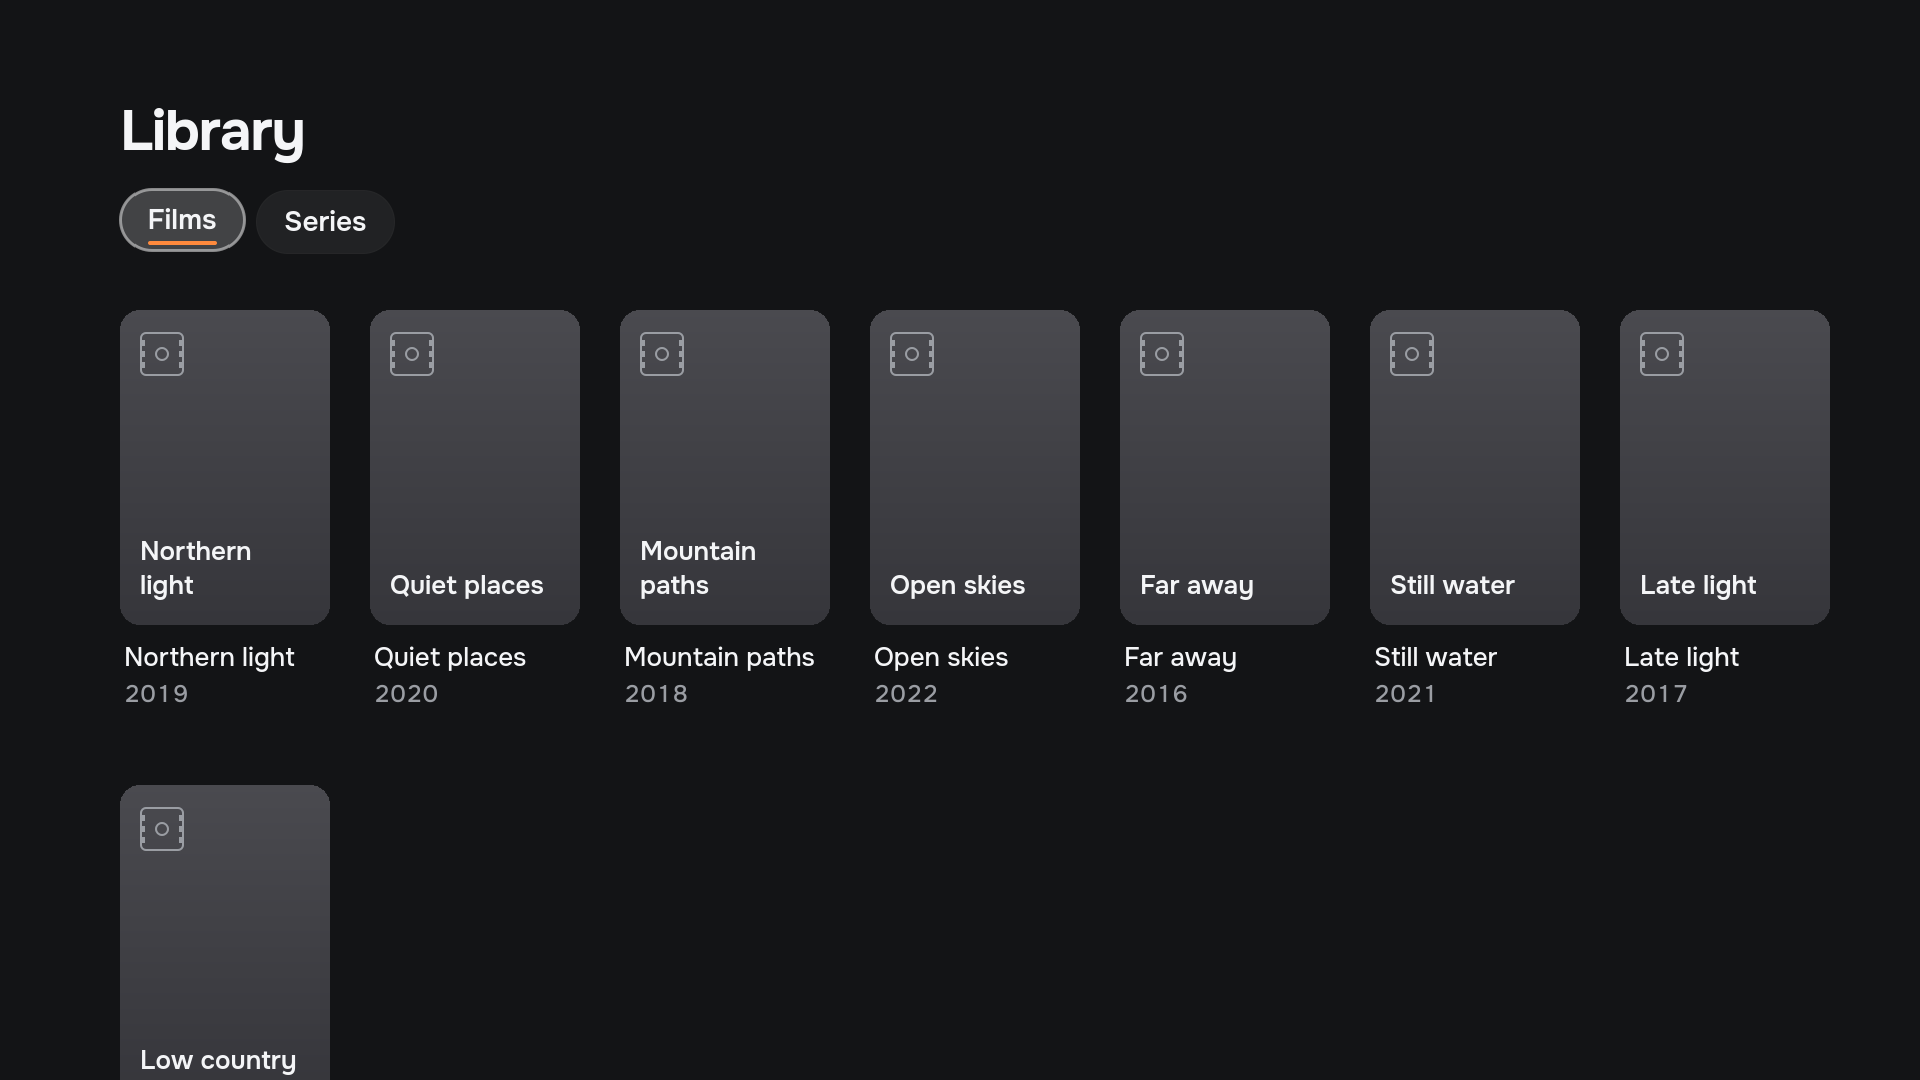
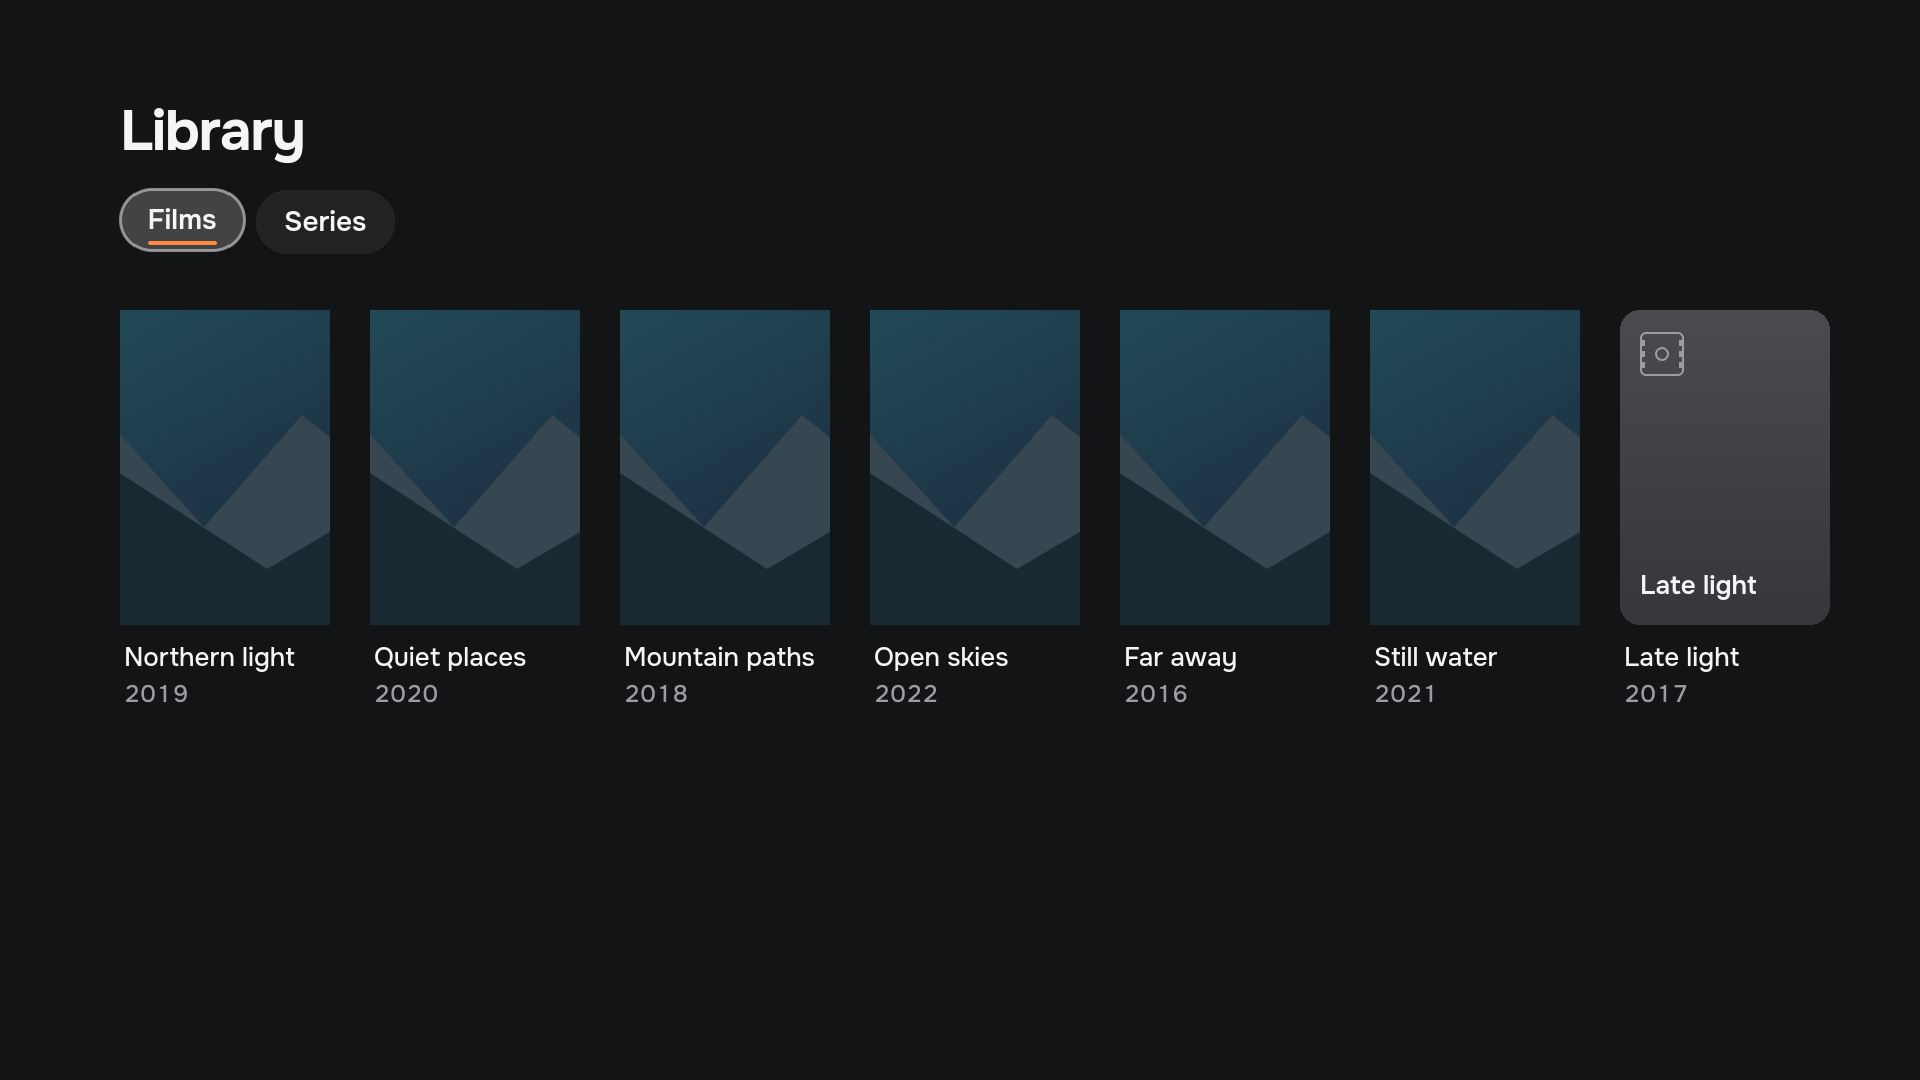
Match the READMEs to the shell on master
Document Library1, Media1, Settings1 and Assets1, and the screens the
shell does not mount. Refresh the 1920x1080 gallery captures, including
Settings, and keep the English and Russian captions to what is in frame.

Changed region(s): [[0.0625, 0.275, 0.8438, 0.5806], [0.0625, 0.7028, 0.1875, 1.0]]

diff --git a/README.md b/README.md
@@ -21,37 +21,39 @@
 ---
 
 > [!WARNING]
-> **Arinn is pre-alpha.** Phase 1 implements the production core and plugin SDK; the minimal UI remains a technical prototype. It is not yet usable as an everyday HTPC shell. See the [roadmap](ROADMAP.md).
+> **Arinn is pre-alpha.** Phase 1 implements the production core and plugin SDK. The shell binds several screens to the daemon and is still a technical prototype. It is not yet usable as an everyday HTPC shell. See the [roadmap](ROADMAP.md).
 
 ## What is Arinn?
 
 Arinn (Old Norse for *hearth*) turns a Linux computer behind the TV into something that feels like a TV: you pick up the remote and ask *"what do we want to do now?"* instead of *"which app do I start?"*.
 
-Arinn does **not** replace your browser, player or game launcher. It orchestrates the applications you already have and stays on top of them:
+Arinn does **not** replace your browser, player or game launcher. It orchestrates the applications you already have and stays on top of them. What follows is what the shell on `master` mounts:
 
-- **Home over everything.** Press Home in Chrome, Steam or a game and Arinn appears over it; press Back and you are exactly where you were.
-- **One Continue row** for the film you did not finish, the browser tab you were watching and the running game.
-- **Streaming services as tiles** — Kinopoisk, IVI or YouTube open directly, not through bookmarks.
-- **Steam and EmulationStation** as first-class entry points.
-- **Local library** of films and series from local or mounted network folders, played in mpv with Arinn's on-screen controls, audio and subtitle selection and resume.
-- **Downloads** from Transmission, with finished films appearing in the library.
+- **Home over everything.** Press Home in another application and Arinn appears over it; press Back and you are where you were.
+- **Continue and Now playing** read media sessions from `Media1`, with progress and transport controls. The mpv plugin is the playback provider. The local library plugin is the catalogue.
+- **Library** reads `Library1`. Posters and fanart load through `Assets1`. A missing image stays a plate.
+- **Open services** lists managed browser windows. The packaged web shortcuts include YouTube, Kinopoisk and IVI.
+- **Applications** come from the desktop provider, grouped into Online, Games, Media and Other.
+- **Settings** reads `Settings1`. Controls are grouped and typed: a toggle, a stepper, text, an option list or a path. A path is plain text. There is no folder browser.
 - **Made for a remote:** everything works with arrows, OK and Back from three metres away; an air mouse works too.
 - **Shared household:** no accounts, no profiles, no login.
+
+Downloads, the player on-screen display and the power menu are specified and are not mounted. Choosing Downloads shows that the section is not available. Choosing Power reports that power controls are not available. The daemon serves `Browse1`. The shell has no address or search screen. Timeline thumbnails stay with the player binding and are not part of the artwork above.
 
 Every integration is a separate plugin process talking to a small core over D-Bus, so new services can be added without touching Arinn itself.
 
 ## Interface preview
 
-These are screenshots of the **current Qt/QML interface**, rendered by the development gallery with fictional fixture data, placeholder artwork and neutral application icons. Home, navigation, Library, Applications, Open services and Now playing use the same components as the production shell. Media, favorites and service integrations shown by the fixtures are not completed integrations. See the [UI implementation status](docs/architecture/ui-components.md).
+These are screenshots of the **current Qt/QML interface**, rendered by the development gallery at 1920×1080 with fictional fixture data, one shared placeholder image and neutral application monograms. Home, navigation, Library, Applications, Open services, Now playing and Settings use the same views the production shell mounts. The gallery does not connect to a daemon. Names, favorites and settings rows in the fixtures are not a catalogue of finished integrations. See the [UI components](docs/architecture/ui-components.md).
 
-**Home** — the Arinn brand mark, Continue cards and application tiles, with visible remote-control focus.
+**Home** — the Arinn mark, Continue cards and favorite tiles, with remote-control focus on the return card. The other Continue cards show the placeholder landscape and a progress bar.
 
-![Current Arinn Qt Home with the brand mark, Continue cards and neutral application tiles](docs/design/current-ui/home.png)
+![Current Arinn Qt Home with Continue cards, the placeholder landscape and favorite tiles](docs/design/current-ui/home.png)
 
 <details>
 <summary>Navigation screenshot</summary>
 
-**Navigation** — the shared brand lockup and section menu over a dimmed Home, with the current selection highlighted.
+**Navigation** — the brand lockup and section menu over a dimmed Home, with Home selected.
 
 ![Current Arinn Qt navigation with the brand mark and Home selected](docs/design/current-ui/navigation.png)
 
@@ -60,9 +62,9 @@ These are screenshots of the **current Qt/QML interface**, rendered by the devel
 <details>
 <summary>Library screenshot</summary>
 
-**Library** — films and series on placeholder plates, with the current catalogue tab highlighted.
+**Library** — Films selected, with the Series tab beside it. Six posters show the placeholder landscape. Late light is the plate drawn when a poster is missing.
 
-![Current Arinn Qt Library with placeholder film plates and Films selected](docs/design/current-ui/library.png)
+![Current Arinn Qt Library with Films selected, placeholder landscapes and one plate](docs/design/current-ui/library.png)
 
 </details>
 
@@ -87,9 +89,18 @@ These are screenshots of the **current Qt/QML interface**, rendered by the devel
 <details>
 <summary>Now playing screenshot</summary>
 
-**Now playing** — the current media session, with progress and transport controls.
+**Now playing** — the current media session on the placeholder landscape, with progress and transport controls.
 
-![Current Arinn Qt Now playing screen with progress and transport controls](docs/design/current-ui/now-playing.png)
+![Current Arinn Qt Now playing screen with the placeholder landscape, progress and transport controls](docs/design/current-ui/now-playing.png)
+
+</details>
+
+<details>
+<summary>Settings screenshot</summary>
+
+**Settings** — Media focused in the category list. The group shows a toggle, an option, a stepper, the path `/media/films` as text, and a path list with `/media/shows` and Add path.
+
+![Current Arinn Qt Settings with Media focused and paths shown as text](docs/design/current-ui/settings.png)
 
 </details>
 
@@ -104,7 +115,7 @@ These are screenshots of the **current Qt/QML interface**, rendered by the devel
 | 2–4 | Applications, browser, media | Planned |
 | 5 | MVP: downloads, full UI, packaging | Planned |
 
-What works today: the Rust daemon, a demo plugin, the CLI and a minimal Qt shell; production manifest discovery, paged application state, asynchronous commands and recovery after plugin and daemon crashes. Global Home and focus return were verified in Phase 0 (20/20 cycles on two monitors); the migrated runtime also passed 20/20 Home/Back cycles over Chrome and real systemd restart/reload checks ([evidence](docs/architecture/phase-1-live-evidence.json)). There is no finished UI, no browser, media or download integration and no published release yet. Details: [ROADMAP.md](ROADMAP.md) and the [Phase 0 report](docs/architecture/phase-0-report.md).
+What works today: the Rust daemon, the CLI and the Qt shell; production manifest discovery, paged application state, asynchronous commands and recovery after plugin and daemon crashes. The shell mounts Home, navigation, Applications, Open services, Library (`Library1`), Continue and Now playing (`Media1`), and Settings (`Settings1`). Artwork, posters and fanart load through `Assets1`. Providers on `master` include demo, desktop, Chrome, MPRIS, the local library and mpv. The daemon serves `Browse1`; the shell has no address or search screen. Downloads, the player on-screen display and the power menu are not mounted. Global Home and focus return were verified in Phase 0 (20/20 cycles on two monitors); the migrated runtime also passed 20/20 Home/Back cycles over Chrome and real systemd restart/reload checks ([evidence](docs/architecture/phase-1-live-evidence.json)). There is no stable release yet. Details: [ROADMAP.md](ROADMAP.md) and the [Phase 0 report](docs/architecture/phase-0-report.md).
 
 ## Requirements
 
@@ -170,8 +181,8 @@ Remote controls such as the G60S Pro air mouse send these same keys; no driver i
 
 ```text
 arinn-shell (Qt 6/QML) ──D-Bus──▶ arinnd (Rust) ──D-Bus──▶ plugins (separate processes)
-                                     │                     demo · desktop · chrome · mpris
-                                     ▼                     library · mpv · transmission …
+                                     │                     demo · desktop · chrome
+                                     ▼                     mpris · library · mpv
                            KDE platform adapter (KWin)
 ```
 

diff --git a/docs/design/current-ui/README.md b/docs/design/current-ui/README.md
@@ -5,13 +5,20 @@
 
 Captured on 2026-09-30 at 1920 × 1080 using Qt 6.11.2, the offscreen platform
 and software Qt Quick renderer. These images show the screens the production
-shell actually mounts: Home, navigation, Library, Applications, Open services
-and Now playing. They are not the historical HTML prototype. The gallery uses
-fixed fictional content, original placeholder artwork and neutral application
-monograms. Library plates are the same generic plates the shell draws, because
-the catalogue does not supply poster images. It does not connect to a daemon
-or control the desktop. Favorites, media and service entries here are fixture
-data, not evidence of completed integrations. See [UI status](../../architecture/ui-components.md).
+shell mounts: Home, navigation, Library, Applications, Open services, Now
+playing and Settings. They are not the historical HTML prototype.
+
+The gallery uses fixed fictional content, one original placeholder image
+(`fixture-artwork.svg`) and neutral application monograms. Continue cards,
+Library posters and the Now playing plate paint that image with the same
+views the shell uses when an artwork URL is set. Late light has no artwork,
+so Library draws the generic plate. The production shell loads real posters
+and fanart through `Assets1`; a missing image stays that plate.
+Timeline thumbnails are not part of these screens. The gallery does not
+connect to a daemon or control the desktop. Favorites and the settings rows
+are fixture data, not evidence of completed integrations. The production Home
+does not bind a New row, so the Home capture does not show one. See
+[UI components](../../architecture/ui-components.md).
 
 The mark is the unchanged [approved SVG](../handoff/assets/arinn-mark.svg),
 embedded as a Qt resource. The screenshots are documentation under CC-BY-SA-4.0,
@@ -40,6 +47,9 @@ QT_QPA_PLATFORM=offscreen QT_QUICK_BACKEND=software \
 QT_QPA_PLATFORM=offscreen QT_QUICK_BACKEND=software \
   build/apps/arinn-shell/arinn-ui-gallery --now-playing \
   --capture docs/design/current-ui/now-playing.png
+QT_QPA_PLATFORM=offscreen QT_QUICK_BACKEND=software \
+  build/apps/arinn-shell/arinn-ui-gallery --settings \
+  --capture docs/design/current-ui/settings.png
 ```
 
 `--now-playing` is the flag name because Qt treats `--session` as its own

diff --git a/changes/changed/readme-current-shell.md b/changes/changed/readme-current-shell.md
@@ -1,0 +1,4 @@
+<!-- SPDX-FileCopyrightText: 2026 Arinn contributors -->
+<!-- SPDX-License-Identifier: CC-BY-SA-4.0 -->
+
+- Update the English and Russian READMEs to the screens the shell mounts: Library on `Library1`, Continue and Now playing on `Media1`, Settings on `Settings1`, and artwork through `Assets1`. Downloads, the player overlay and the power menu stay navigation labels. `Browse1` has no shell screen.
